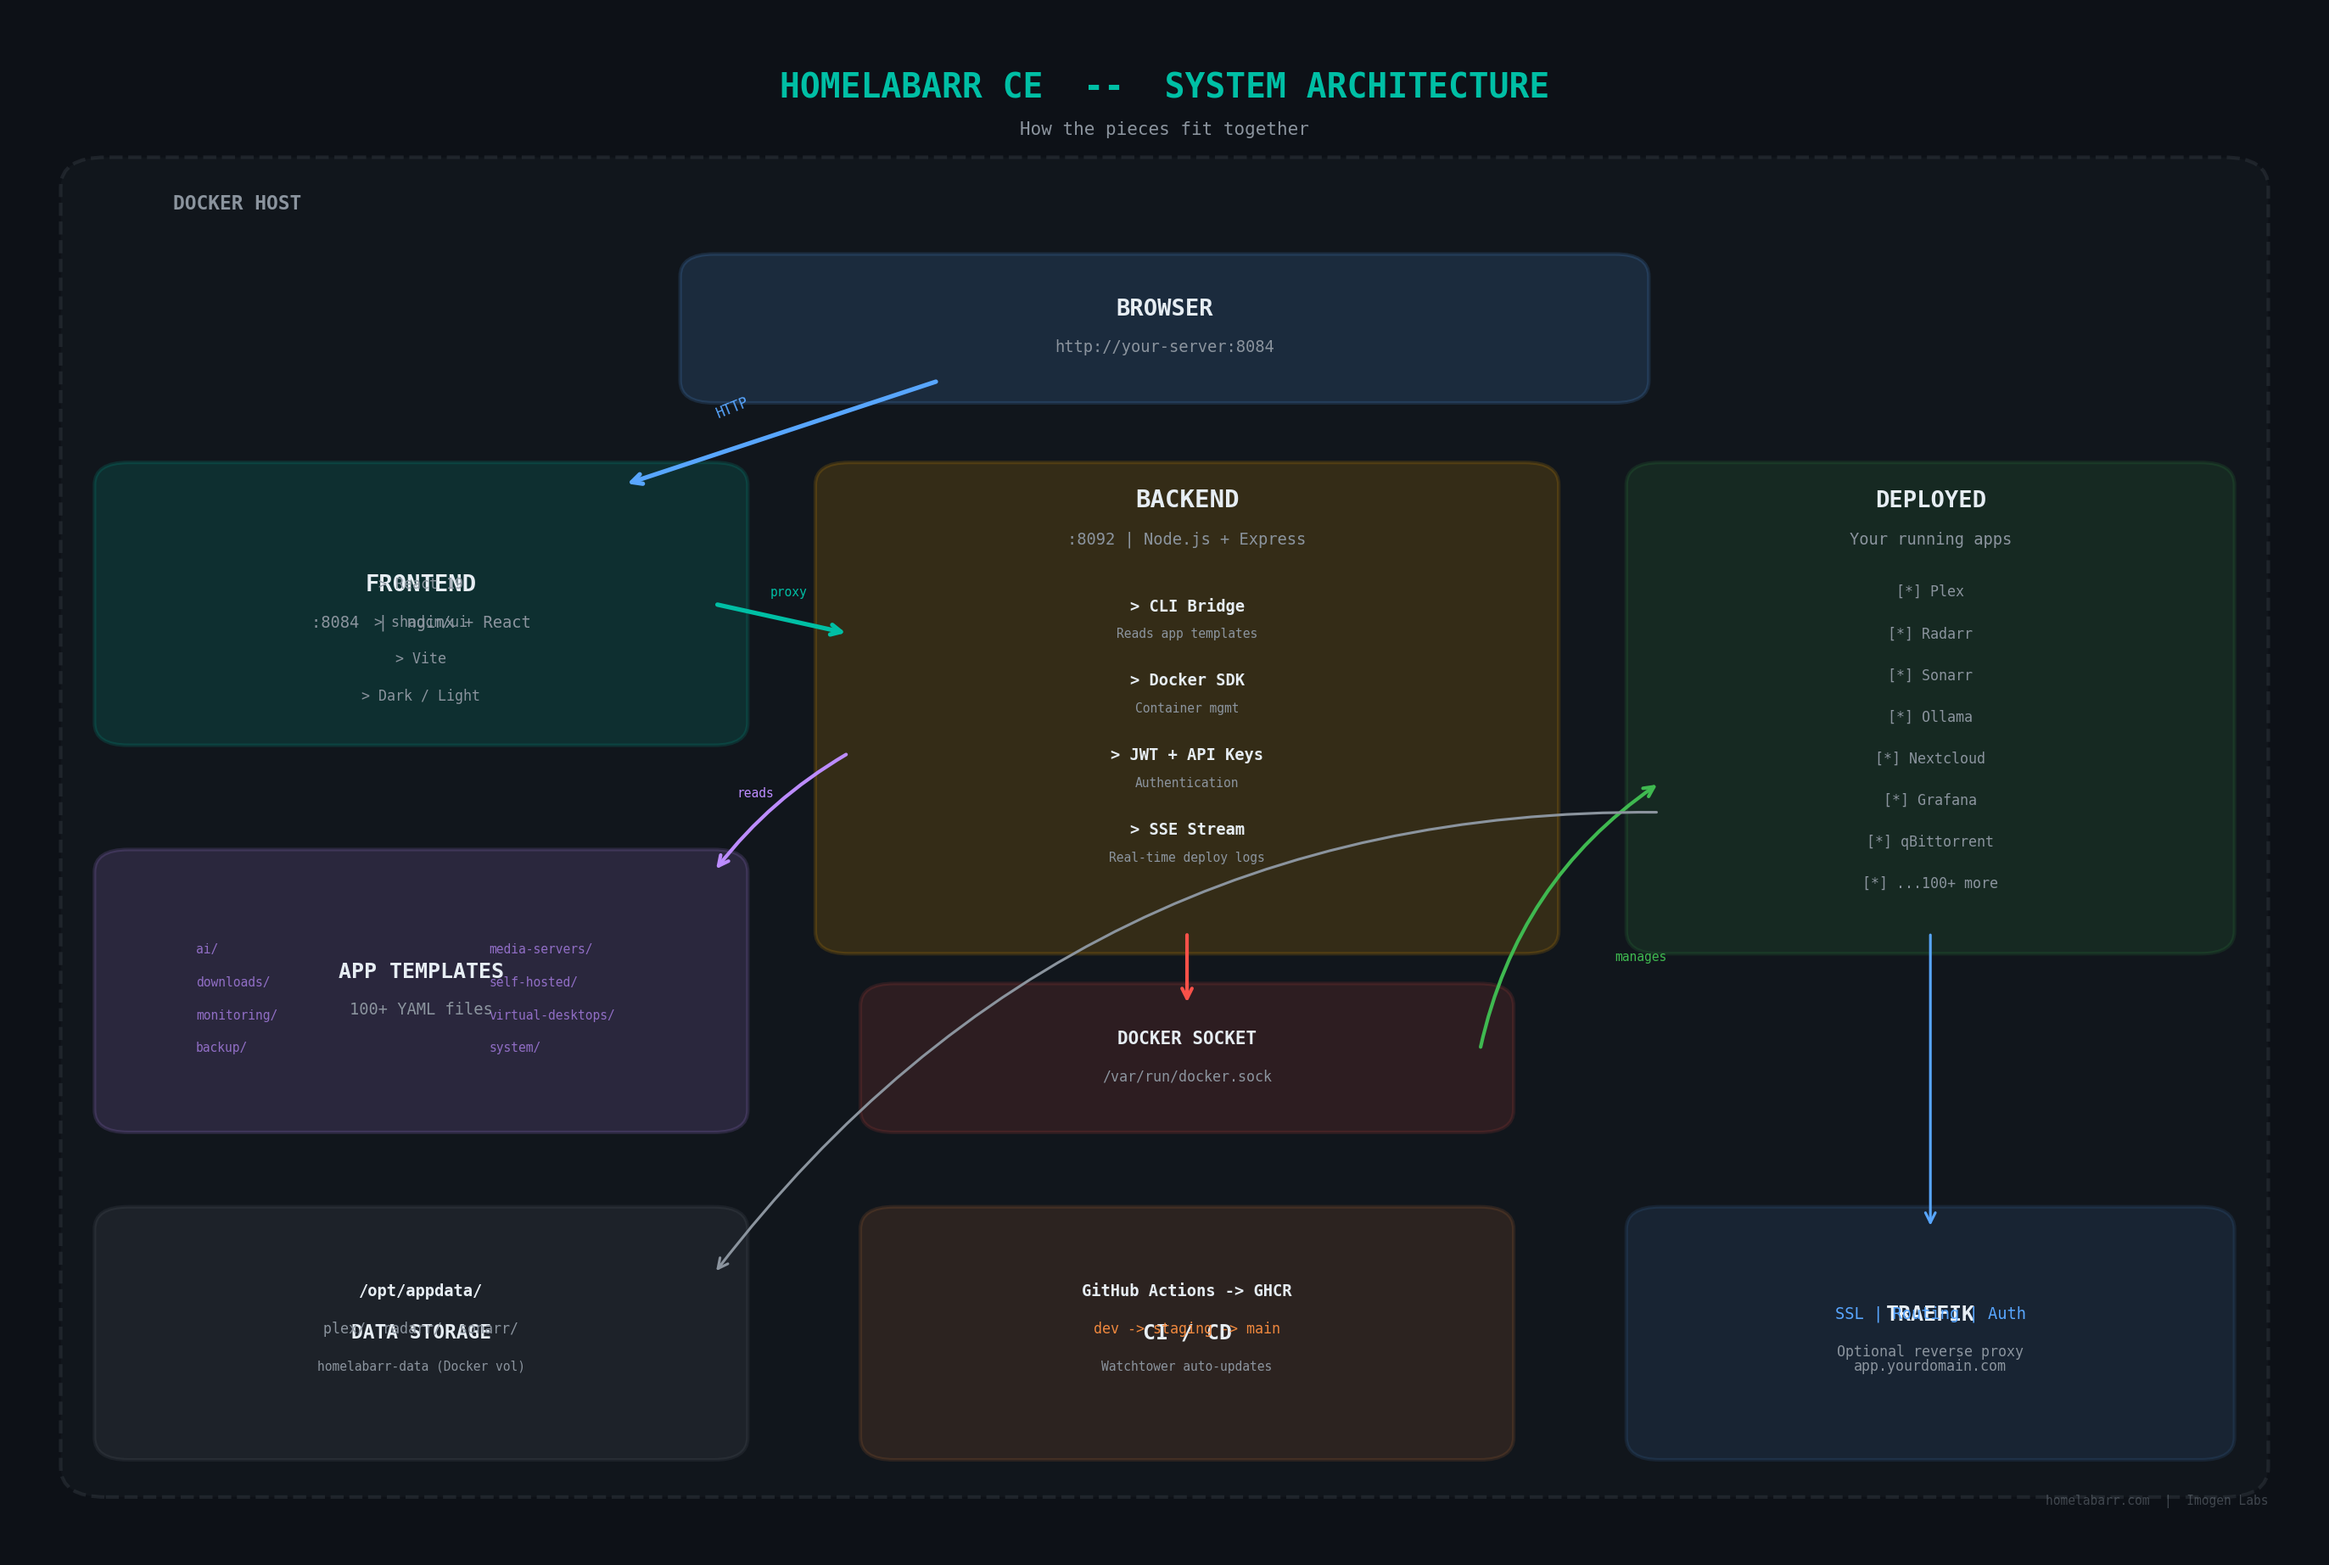
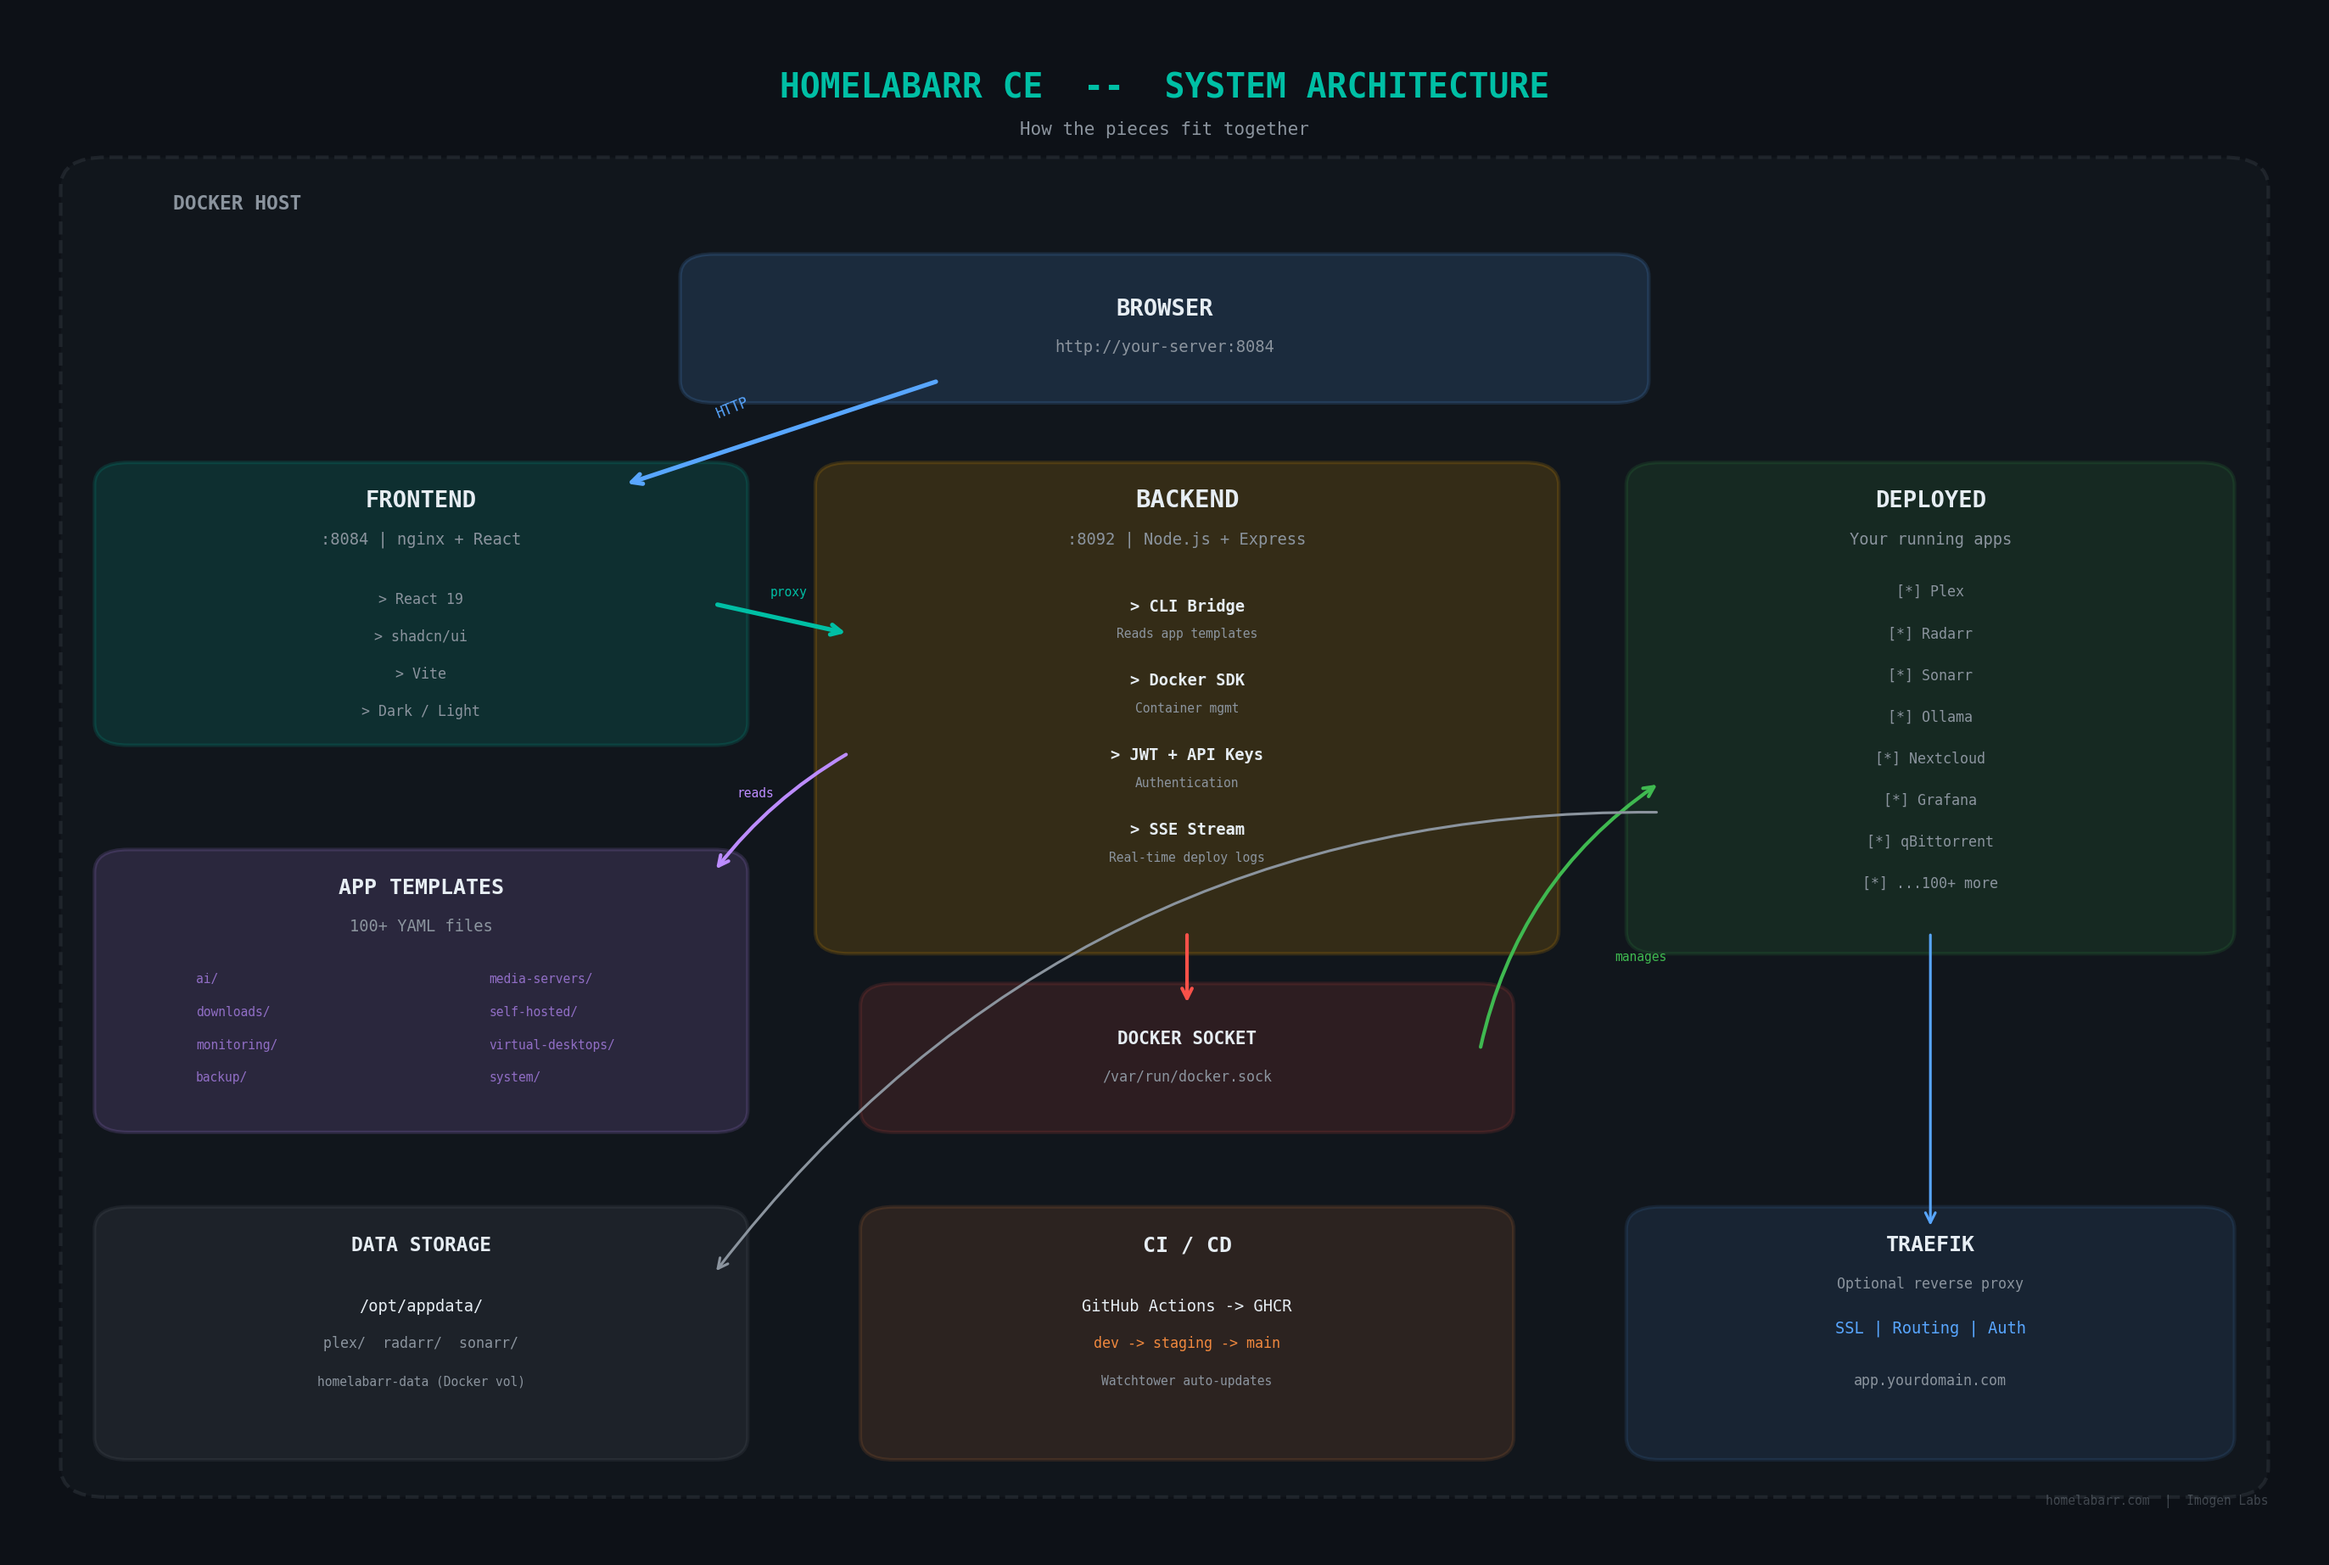
wiki: fix card title/content overlap in system architecture diagram
- All card titles now pinned to top with content flowing below
- Frontend: subtitle separated from tech list
- App Templates: title/subtitle above category grid
- Data Storage, CI/CD, Traefik: titles above detail text
- No more text-on-text overlap

diff --git a/wiki/docs/img/diagrams/generate_diagrams.py b/wiki/docs/img/diagrams/generate_diagrams.py
@@ -82,11 +82,14 @@ def gen_system():
         'http://your-server:8084', color=FLOW, fs=13, sub_fs=9)
 
     # ── Frontend ──
-    box(ax, 0.04, 0.54, 0.26, 0.16, 'FRONTEND',
-        ':8084  |  nginx + React', color=PRIMARY, fs=13)
+    box(ax, 0.04, 0.54, 0.26, 0.16, '', color=PRIMARY)
+    ax.text(0.17, 0.685, 'FRONTEND', fontsize=13, fontweight='bold',
+            color=TEXT, ha='center', fontfamily='monospace')
+    ax.text(0.17, 0.66, ':8084 | nginx + React', fontsize=9,
+            color=TEXT_DIM, ha='center', fontfamily='monospace')
     techs = ['React 19', 'shadcn/ui', 'Vite', 'Dark / Light']
     for i, t in enumerate(techs):
-        ax.text(0.17, 0.63 - i*0.025, '> ' + t, fontsize=8,
+        ax.text(0.17, 0.62 - i*0.025, '> ' + t, fontsize=8,
                 color=TEXT_DIM, ha='center', fontfamily='monospace')
 
     # ── Backend ──
@@ -113,13 +116,16 @@ def gen_system():
         '/var/run/docker.sock', color=RED, alpha=0.12, fs=10, sub_fs=8)
 
     # ── App Templates ──
-    box(ax, 0.04, 0.28, 0.26, 0.16, 'APP TEMPLATES',
-        '100+ YAML files', color=PURPLE, fs=12, sub_fs=9)
+    box(ax, 0.04, 0.28, 0.26, 0.16, '', color=PURPLE)
+    ax.text(0.17, 0.425, 'APP TEMPLATES', fontsize=12, fontweight='bold',
+            color=TEXT, ha='center', fontfamily='monospace')
+    ax.text(0.17, 0.40, '100+ YAML files', fontsize=9,
+            color=TEXT_DIM, ha='center', fontfamily='monospace')
     cats = ['ai/', 'media-servers/', 'downloads/', 'self-hosted/',
             'monitoring/', 'virtual-desktops/', 'backup/', 'system/']
     for i, c in enumerate(cats):
         col = i % 2; row = i // 2
-        ax.text(0.07 + col * 0.13, 0.385 - row * 0.022, c, fontsize=7,
+        ax.text(0.07 + col * 0.13, 0.365 - row * 0.022, c, fontsize=7,
                 color=PURPLE, ha='left', fontfamily='monospace', alpha=0.7)
 
     # ── Deployed Containers ──
@@ -135,29 +141,36 @@ def gen_system():
                 color=TEXT_DIM, ha='center', fontfamily='monospace')
 
     # ── Data Storage ──
-    box(ax, 0.04, 0.06, 0.26, 0.14, 'DATA STORAGE', color='#8b949e', alpha=0.1, fs=11)
-    ax.text(0.17, 0.155, '/opt/appdata/', fontsize=9, fontweight='bold',
+    box(ax, 0.04, 0.06, 0.26, 0.14, '', color='#8b949e', alpha=0.1)
+    ax.text(0.17, 0.185, 'DATA STORAGE', fontsize=11, fontweight='bold',
             color=TEXT, ha='center', fontfamily='monospace')
-    ax.text(0.17, 0.13, 'plex/  radarr/  sonarr/', fontsize=8,
+    ax.text(0.17, 0.145, '/opt/appdata/', fontsize=9,
+            color=TEXT, ha='center', fontfamily='monospace')
+    ax.text(0.17, 0.12, 'plex/  radarr/  sonarr/', fontsize=8,
             color=TEXT_DIM, ha='center', fontfamily='monospace')
-    ax.text(0.17, 0.105, 'homelabarr-data (Docker vol)', fontsize=7,
+    ax.text(0.17, 0.095, 'homelabarr-data (Docker vol)', fontsize=7,
             color=TEXT_DIM, ha='center', fontfamily='monospace')
 
     # ── CI/CD ──
-    box(ax, 0.38, 0.06, 0.26, 0.14, 'CI / CD', color=ORANGE, alpha=0.12, fs=12)
-    ax.text(0.51, 0.155, 'GitHub Actions -> GHCR', fontsize=9, fontweight='bold',
+    box(ax, 0.38, 0.06, 0.26, 0.14, '', color=ORANGE, alpha=0.12)
+    ax.text(0.51, 0.185, 'CI / CD', fontsize=12, fontweight='bold',
             color=TEXT, ha='center', fontfamily='monospace')
-    ax.text(0.51, 0.13, 'dev -> staging -> main', fontsize=8,
+    ax.text(0.51, 0.145, 'GitHub Actions -> GHCR', fontsize=9,
+            color=TEXT, ha='center', fontfamily='monospace')
+    ax.text(0.51, 0.12, 'dev -> staging -> main', fontsize=8,
             color=ORANGE, ha='center', fontfamily='monospace')
-    ax.text(0.51, 0.105, 'Watchtower auto-updates', fontsize=7,
+    ax.text(0.51, 0.095, 'Watchtower auto-updates', fontsize=7,
             color=TEXT_DIM, ha='center', fontfamily='monospace')
 
     # ── Traefik ──
-    box(ax, 0.72, 0.06, 0.24, 0.14, 'TRAEFIK',
-        'Optional reverse proxy', color=FLOW, alpha=0.1, fs=12, sub_fs=8)
-    ax.text(0.84, 0.14, 'SSL | Routing | Auth', fontsize=9,
+    box(ax, 0.72, 0.06, 0.24, 0.14, '', color=FLOW, alpha=0.1)
+    ax.text(0.84, 0.185, 'TRAEFIK', fontsize=12, fontweight='bold',
+            color=TEXT, ha='center', fontfamily='monospace')
+    ax.text(0.84, 0.16, 'Optional reverse proxy', fontsize=8,
+            color=TEXT_DIM, ha='center', fontfamily='monospace')
+    ax.text(0.84, 0.13, 'SSL | Routing | Auth', fontsize=9,
             color=FLOW, ha='center', fontfamily='monospace')
-    ax.text(0.84, 0.105, 'app.yourdomain.com', fontsize=8,
+    ax.text(0.84, 0.095, 'app.yourdomain.com', fontsize=8,
             color=TEXT_DIM, ha='center', fontfamily='monospace')
 
     # ── Arrows ──
